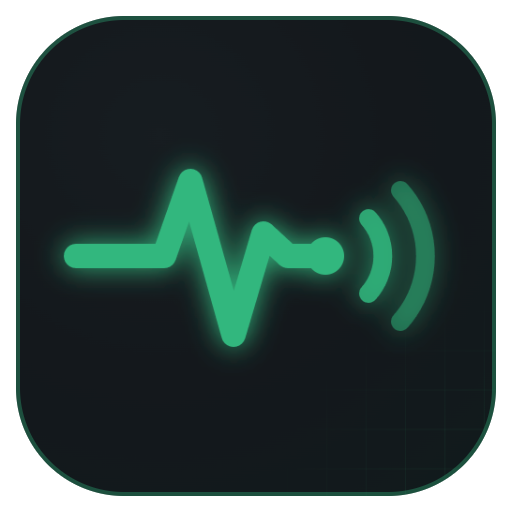
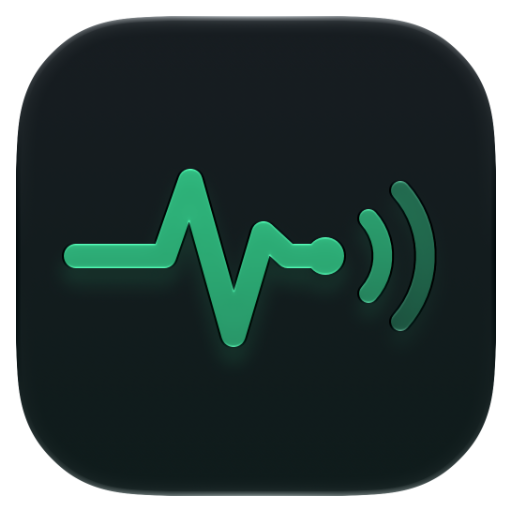
chore: Release 1.10.1 (#101)
* docs: The README, its diagram and the store art show the Liquid Glass icon, exported from AppIcon.icon

docs/brand/app-icon.png is now the Default rendition of AppIcon.icon as
ictool exports it, in sRGB, with its own rounded shape and glass edge.
readme-icon.html frames it without a radius or edge of its own, and the new
app-store/icon.html puts it on the store art's ground for icon.png, RGB
without alpha. The flow diagrams and panel 6 of the store screenshots in
English, Dutch and German are rendered again; only the icon changed in them.
app-icon.html keeps the flat mark as the source of the icon's layers.

* chore: Release 1.10.1

Changed region(s): [[0.0938, 0.3125, 0.875, 0.6875], [0.0312, 0.0312, 0.9688, 0.9688], [0.7812, 0.3438, 0.8125, 0.375]]

diff --git a/docs/brand/app-icon.html b/docs/brand/app-icon.html
@@ -16,19 +16,25 @@
   The SVG layers are written from the points below by app-icon-layers.swift (run it after
   changing the mark here). Open AppIcon.icon in Icon Composer (Xcode > Open Developer Tool) to
   preview or tune the glass. Xcode compiles it into the dark, clear and tinted appearances of
-  iOS 26 and later, and into flat icons for iOS 17 and 18. Preview a rendition without Xcode:
+  iOS 26 and later, and into flat icons for iOS 17 and 18. Export a rendition without Xcode;
+  docs/brand/app-icon.png is the Default one, the icon as iOS draws it with its rounded shape,
+  glass edge and transparent corners, which readme-icon.html (the README icon) and
+  app-store/icon.html (the store art) frame. From the repository root:
 
     ICTOOL="/Applications/Xcode.app/Contents/Applications/Icon Composer.app/Contents/Executables/ictool"
-    "$ICTOOL" LifeDashboardCompanion/AppIcon.icon --export-image --output-file /tmp/icon.png \
+    "$ICTOOL" LifeDashboardCompanion/AppIcon.icon --export-image --output-file docs/brand/app-icon.png \
       --platform iOS --rendition Default --width 1024 --height 1024 --scale 1
+    sips --matchTo "/System/Library/ColorSync/Profiles/sRGB Profile.icc" docs/brand/app-icon.png
+    oxipng -o 4 --nx --strip safe docs/brand/app-icon.png
     # renditions: Default, Dark, ClearLight, ClearDark, TintedLight, TintedDark
 
-  This page renders docs/brand/app-icon.png, the flat icon that readme-icon.html frames, at
-  1024 px with headless Chrome, from the repository root:
+  ictool writes Display P3; sips turns it into sRGB, which the brand pages are rendered in. Then
+  render readme-icon.html and app-store/icon.html again. To look at the flat mark itself, render
+  this page with headless Chrome:
 
     "/Applications/Google Chrome.app/Contents/MacOS/Google Chrome" --headless=new \
       --hide-scrollbars --window-size=512,512 --force-device-scale-factor=2 \
-      --screenshot=docs/brand/app-icon.png "file://$PWD/docs/brand/app-icon.html"
+      --screenshot=/tmp/app-icon-flat.png "file://$PWD/docs/brand/app-icon.html"
 
   Colours: background #171D21 -> #14181C -> #101C1C, heartbeat green #30B77E.
 -->

diff --git a/docs/brand/readme-icon.html b/docs/brand/readme-icon.html
@@ -1,8 +1,9 @@
 <!DOCTYPE html>
 <!--
-  Source for docs/readme-icon.png, the icon at the top of the README: the app icon
-  (docs/brand/app-icon.png, the flat render of app-icon.html) with rounded corners and a thin edge,
-  on a transparent background so it sits on GitHub's light and dark theme alike.
+  Source for docs/readme-icon.png, the icon at the top of the README: the Liquid Glass app icon as
+  iOS draws it (docs/brand/app-icon.png, exported from AppIcon.icon with ictool, see app-icon.html),
+  which brings its own rounded shape and glass edge, on a transparent background so it sits on
+  GitHub's light and dark theme alike.
 
     "/Applications/Google Chrome.app/Contents/MacOS/Google Chrome" \
       --headless=new --screenshot=docs/readme-icon.png --window-size=512,512 \
@@ -15,20 +16,11 @@
 <style>
   * { margin: 0; padding: 0; }
   html, body { width: 512px; height: 512px; overflow: hidden; background: transparent; }
-  .icon {
-    position: absolute; inset: 16px;
-    border-radius: 108px;
-    overflow: hidden;
-  }
+  .icon { position: absolute; inset: 16px; }
   .icon img { width: 100%; height: 100%; display: block; }
-  .edge {
-    position: absolute; inset: 16px; border-radius: 108px;
-    box-shadow: inset 0 0 0 4px rgba(48, 183, 126, 0.35);
-  }
 </style>
 </head>
 <body>
   <div class="icon"><img src="app-icon.png" alt=""></div>
-  <div class="edge"></div>
 </body>
 </html>

diff --git a/docs/brand/app-store/icon.html b/docs/brand/app-store/icon.html
@@ -1,0 +1,26 @@
+<!DOCTYPE html>
+<!--
+  Source for icon.png, the app icon in the store art (the sign on panel 6 of panorama.html): the
+  Liquid Glass icon as iOS draws it, docs/brand/app-icon.png (exported from AppIcon.icon with
+  ictool, see app-icon.html), on the ground of the store art, so it is RGB without alpha like the
+  rest. From the repository root:
+
+    "/Applications/Google Chrome.app/Contents/MacOS/Google Chrome" --headless=new \
+      --screenshot=docs/brand/app-store/icon.png --window-size=1024,1024 --hide-scrollbars \
+      --force-device-scale-factor=1 --force-color-profile=srgb --default-background-color=0C1714FF \
+      "file://$PWD/docs/brand/app-store/icon.html"
+    oxipng -o 4 --nx --strip safe docs/brand/app-store/icon.png
+-->
+<html>
+<head>
+<meta charset="utf-8">
+<style>
+  * { margin: 0; padding: 0; }
+  html, body { width: 1024px; height: 1024px; overflow: hidden; background: #0C1714; }
+  img { width: 1024px; height: 1024px; display: block; }
+</style>
+</head>
+<body>
+  <img src="../app-icon.png" alt="">
+</body>
+</html>

diff --git a/CHANGELOG.md b/CHANGELOG.md
@@ -4,13 +4,20 @@ All notable changes to this project are documented in this file. The format is b
 
 ## [Unreleased]
 
+## [1.10.1] - 2026-10-28
+
+### Added
+
+- The App Store page is in Dutch and German too, with the screenshots in each language.
+
 ### Changed
 
 - The app icon is made of Liquid Glass on iOS 26 and later. The pulse and the two signal arcs are
   separate glass layers on the dark brand ground, so iOS gives them depth, highlights and a green
   shadow, and draws its own dark, clear and tinted versions. It is an Icon Composer document,
   `LifeDashboardCompanion/AppIcon.icon`, instead of three flat pictures; iOS 17 and 18 get the flat
-  icon Xcode renders from it.
+  icon Xcode renders from it. The README, its diagram and the last App Store screenshot show the
+  glass icon too, exported from the document with `ictool`.
 
 ### Fixed
 
@@ -379,7 +386,8 @@ All notable changes to this project are documented in this file. The format is b
 - Offline queue with retries and exponential backoff
 - Webhook logs with CSV/JSON export and payload preview
 
-[Unreleased]: https://github.com/owen282000/life-dashboard-companion-app-ios/compare/1.10.0...HEAD
+[Unreleased]: https://github.com/owen282000/life-dashboard-companion-app-ios/compare/1.10.1...HEAD
+[1.10.1]: https://github.com/owen282000/life-dashboard-companion-app-ios/compare/1.10.0...1.10.1
 [1.10.0]: https://github.com/owen282000/life-dashboard-companion-app-ios/compare/1.9.0...1.10.0
 [1.9.0]: https://github.com/owen282000/life-dashboard-companion-app-ios/compare/1.8.0...1.9.0
 [1.8.0]: https://github.com/owen282000/life-dashboard-companion-app-ios/compare/1.7.0...1.8.0

diff --git a/docs/building.md b/docs/building.md
@@ -99,7 +99,8 @@ The pairing sheet needs a tap on iOS's "Open in Life Dashboard?" prompt, which t
 `docs/social-preview.png`, the repository's social preview, and the other brand images are rendered from HTML with headless Chrome, never drawn by hand or generated. The sources are in `docs/brand/`, with the command in each file's header:
 
 - `banner.html` - the social preview, 1280 by 640, a copy of the Android app's banner
-- `app-icon.html` - the heartbeat mark on its dark ground, flat, as `app-icon.png` for the README icon
+- `app-icon.html` - the heartbeat mark on its dark ground, flat, the source of the app icon's layers
+- `readme-icon.html` - the README icon: `app-icon.png`, the Liquid Glass icon exported from `AppIcon.icon` with `ictool`, on a transparent background
 - `readme-hero.html` - the README's first image, the app next to the Home Assistant cards it feeds, in a desktop and a phone version
 - `app-store/` - the App Store screenshots, header and search asset: `scripts/store-screenshots.sh` takes the screens, `app-store/render.sh` renders them
 
